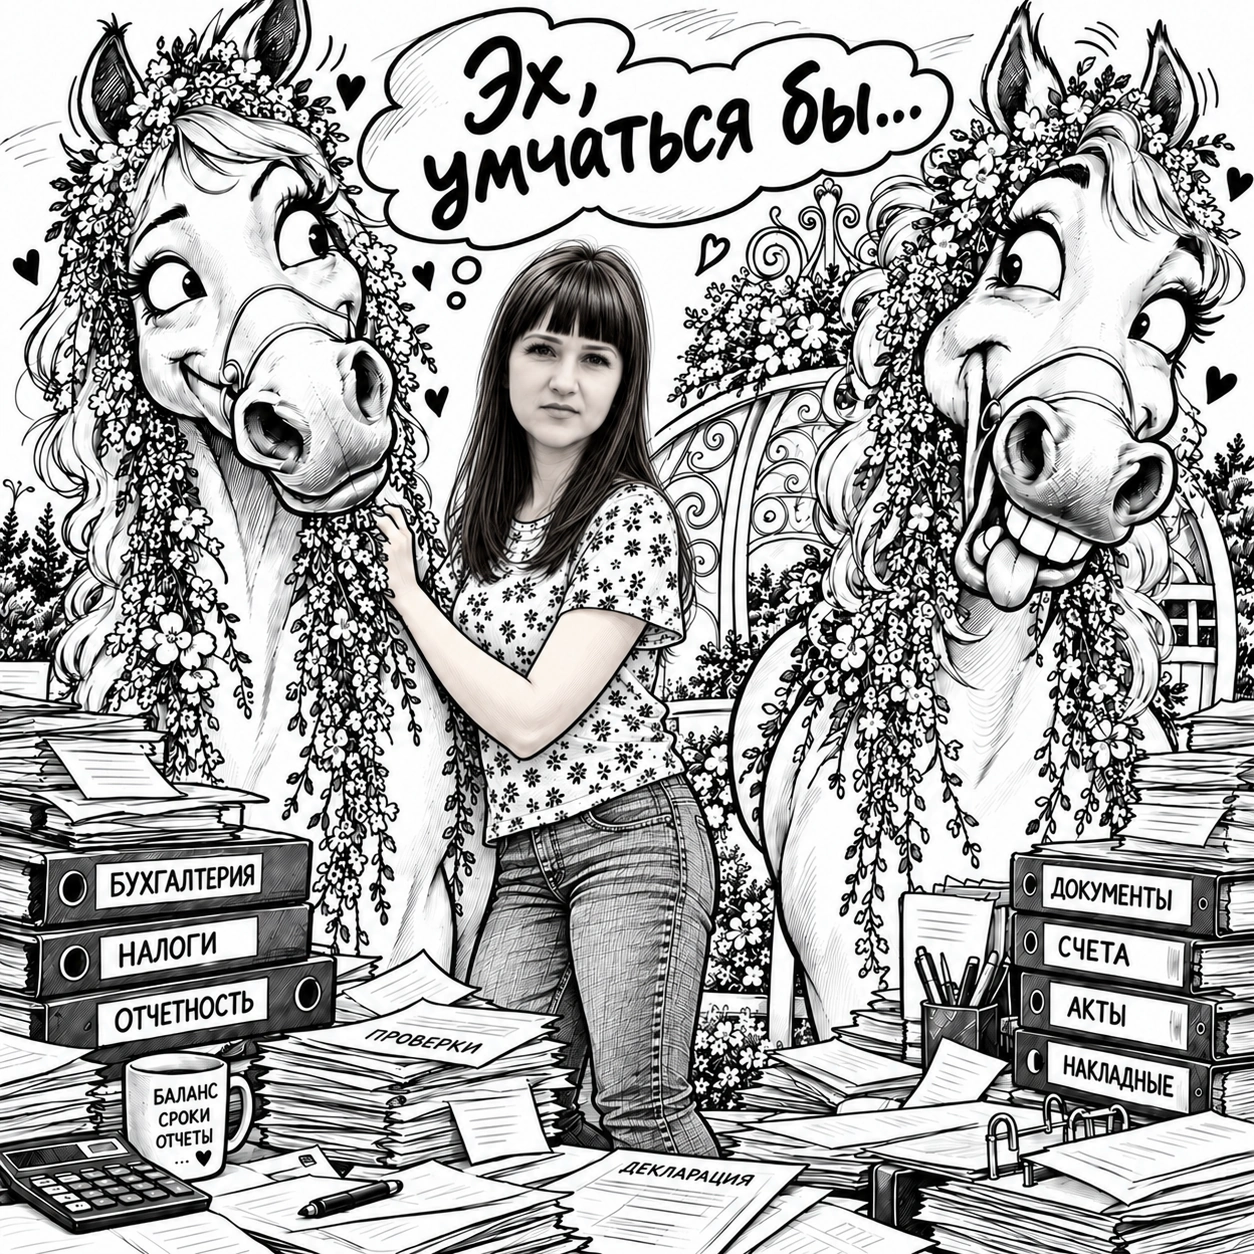
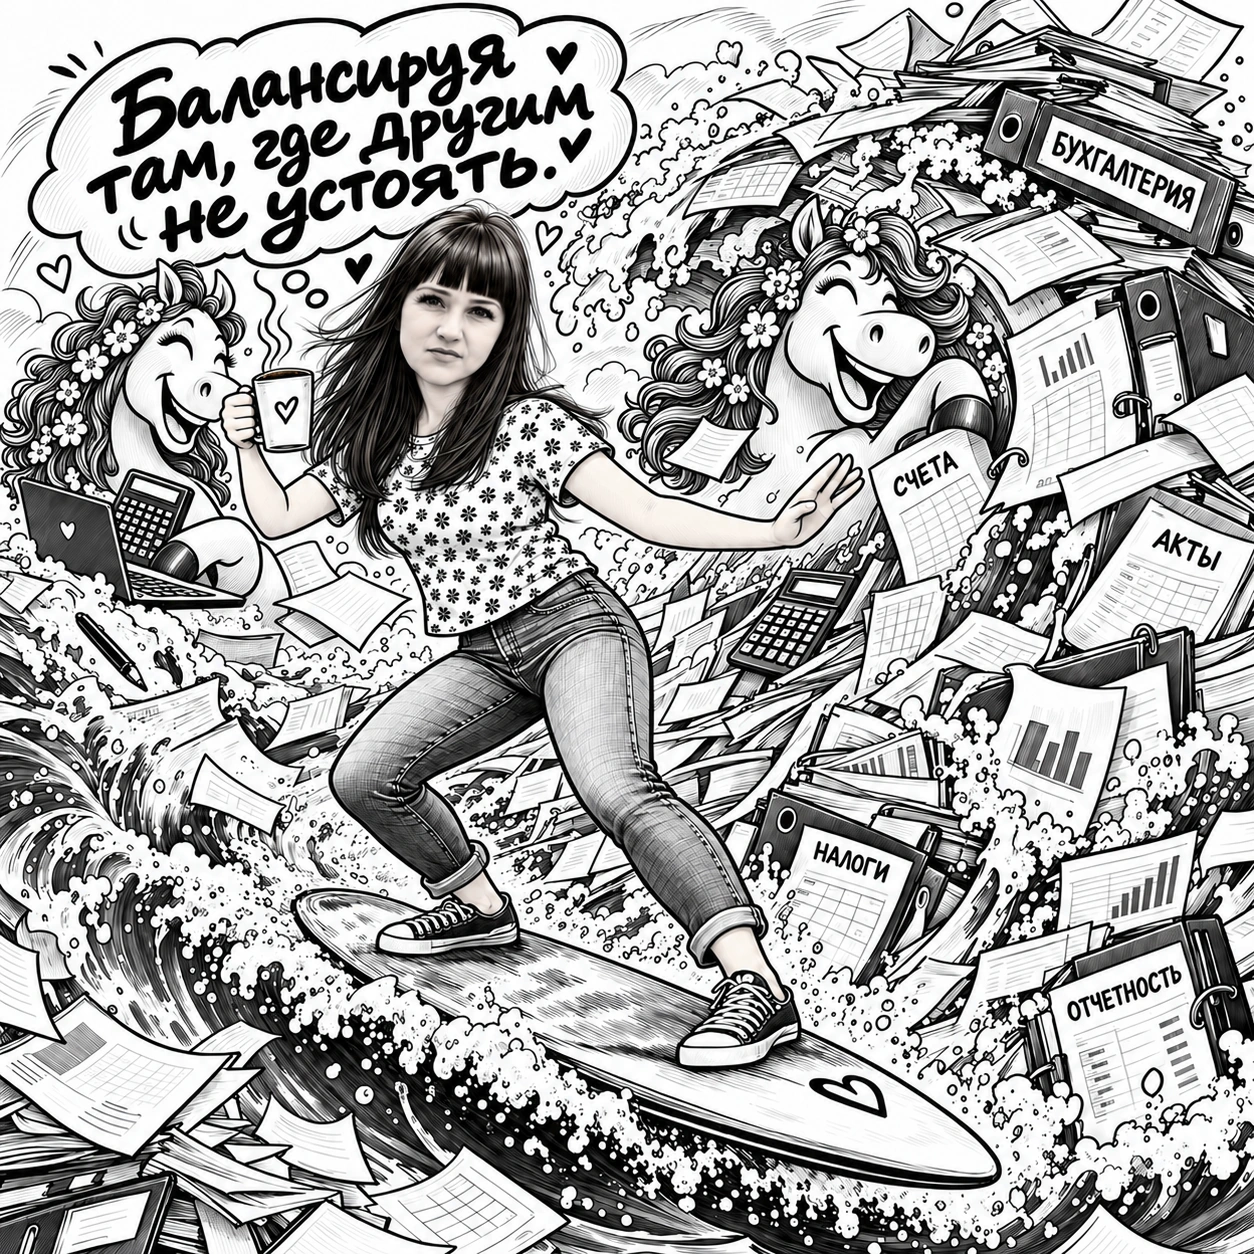
fix: publish approved employee gallery images and balance

diff --git a/app/team/page.tsx b/app/team/page.tsx
@@ -10,9 +10,9 @@ const photos = [
   { file: '02-kati.webp', width: 1122, height: 1402, caption: 'Должность обязывает рулить аккуратно' },
   { file: '04-sveta.webp', width: 1254, height: 1254 },
   { file: '03-ulya.webp', width: 1254, height: 1254, caption: 'Ну-ка, ну-ка… кого тут ещё посчитать и зафиксировать?!' },
+  { file: '08-yar.webp', width: 1448, height: 1086 },
   { file: '09-sergei.webp', width: 1536, height: 1024 },
   { file: '07-sasha.webp', width: 1254, height: 1254 },
-  { file: '08-yar.webp', width: 1448, height: 1086 },
   { file: '10-norik.webp', width: 1254, height: 1254 },
   { file: '11-dany.webp', width: 1151, height: 1366 },
   { file: '12-sovet.webp', width: 1448, height: 1086 },

diff --git a/app/team/team.module.css b/app/team/team.module.css
@@ -205,9 +205,9 @@
   .photo2 { --balanced-width: 305px; --balanced-fluid: 21.2vw; }
   .photo3 { --balanced-width: 350px; --balanced-fluid: 24.3vw; }
   .photo4 { --balanced-width: 375px; --balanced-fluid: 26vw; }
-  .photo7 { --balanced-width: 320px; --balanced-fluid: 22.2vw; }
-  .photo9 { --balanced-width: 390px; --balanced-fluid: 27.1vw; }
-  .photo8 { --balanced-width: 368px; --balanced-fluid: 25.6vw; }
+  .photo7 { --balanced-width: 310px; --balanced-fluid: 21.53vw; }
+  .photo9 { --balanced-width: 394px; --balanced-fluid: 27.36vw; }
+  .photo8 { --balanced-width: 374px; --balanced-fluid: 25.97vw; margin-top: 0; }
   .photo10 { --balanced-width: 520px; --balanced-fluid: 36.1vw; }
   .photo11 { --balanced-width: 440px; --balanced-fluid: 30.6vw; }
 }
